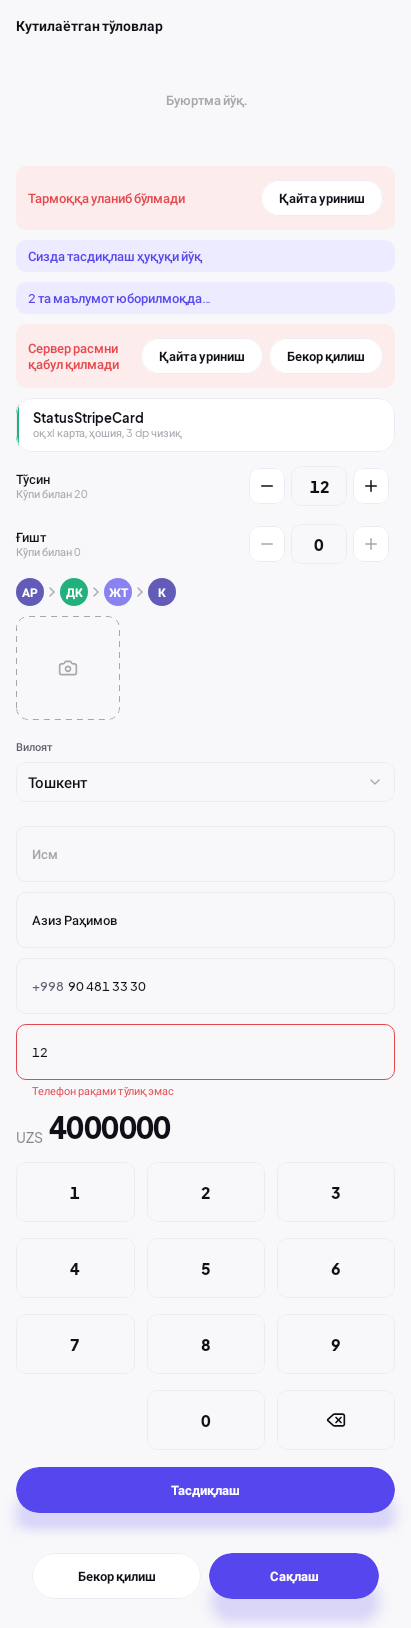
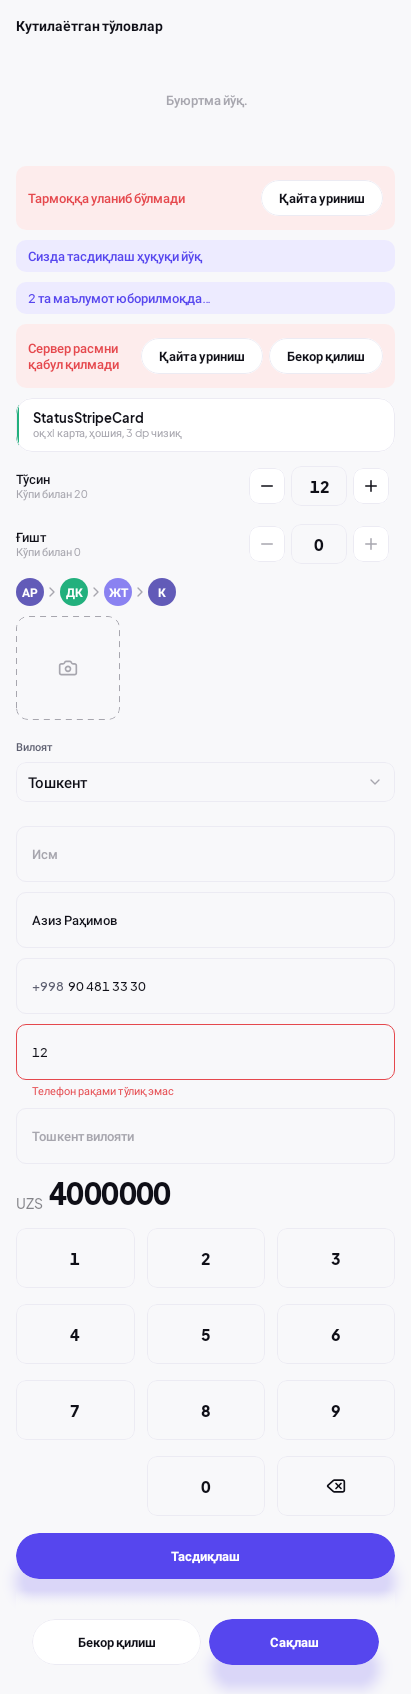
Feat(designsystem) · text field takes enabled, readOnly and keyboard actions
`EtalonTextField` passed neither `enabled` nor `readOnly` through, so the disabled colours
`EtalonTextFieldDefaults.colors()` declares were unreachable — dead tokens a reviewer could not
judge. It also swallowed `keyboardActions`, which tasks 3–4 need for the IME action that hands
focus from one cell to the next.

All three are now parameters. `ds_kept_light` gains a disabled field beside the other four
states, so the "same `page` fill at `ink3`" decision is visible rather than asserted.

Its KDoc also records where the 40 dp cell lives: `FIELD_MIN_HEIGHT` is a floor, the field
measures ~56 dp with `EtalonType.body` and M3's own content padding, and the overload wrapped
here takes no `contentPadding` — so §3.4's 40 dp numeric cells are `BasicTextField`s drawn to
their own geometry, as `SearchField`'s 40 dp pill already is.

diff --git a/android/core/designsystem/src/main/kotlin/uz/etalon/crm/core/designsystem/components/EtalonTextField.kt b/android/core/designsystem/src/main/kotlin/uz/etalon/crm/core/designsystem/components/EtalonTextField.kt
@@ -1,6 +1,7 @@
 package uz.etalon.crm.core.designsystem.components
 
 import androidx.compose.foundation.layout.heightIn
+import androidx.compose.foundation.text.KeyboardActions
 import androidx.compose.foundation.text.KeyboardOptions
 import androidx.compose.material3.OutlinedTextField
 import androidx.compose.material3.OutlinedTextFieldDefaults
@@ -64,12 +65,22 @@ object EtalonTextFieldDefaults {
  * [EtalonShapes.md], so no screen has to remember the token list — and so the global constraint
  * "no `OutlinedTextField` with default colours" has somewhere to point.
  *
- * [SearchField] stays its own thing: it is a 40 dp pill with a leading glyph, not a form field.
+ * **This is the form field, not the table cell.** [FIELD_MIN_HEIGHT] is a floor, not the drawn
+ * height: with [EtalonType.body] and M3's own content padding the field measures ~56 dp, and the
+ * overload wrapped here takes no `contentPadding` to shrink it. §3.4's 40 dp numeric cells — the
+ * room card's ЭНИ/БЎЙИ and the rate sheet's figures — are [androidx.compose.foundation.text.BasicTextField]s
+ * drawn to their own geometry, the way [SearchField]'s 40 dp pill already is.
  *
  * @param prefix a fixed run before the value that is not part of it — «+998 » on a phone number.
  *   It is drawn, never typed, so [onValueChange] never sees it.
  * @param supportingText the line under the field. With [isError] it is the reason, in `red`;
  *   without, a hint in `ink3`.
+ * @param enabled false greys the text to `ink3` and keeps the same `page` fill — this app disables
+ *   a field to say "not yet", never "never", and a greyed-out container reads as broken.
+ * @param readOnly the value is shown and selectable but not editable: a field waiting on a picker,
+ *   not a disabled one.
+ * @param keyboardActions what the IME action key does; pair it with [keyboardOptions]'s
+ *   `imeAction` when a field hands focus on to the next one.
  */
 @Composable
 fun EtalonTextField(
@@ -78,7 +89,10 @@ fun EtalonTextField(
     modifier: Modifier = Modifier,
     placeholder: String? = null,
     singleLine: Boolean = true,
+    enabled: Boolean = true,
+    readOnly: Boolean = false,
     keyboardOptions: KeyboardOptions = KeyboardOptions.Default,
+    keyboardActions: KeyboardActions = KeyboardActions.Default,
     visualTransformation: VisualTransformation = VisualTransformation.None,
     textStyle: TextStyle = EtalonType.body,
     prefix: String? = null,
@@ -88,6 +102,8 @@ fun EtalonTextField(
     value = value,
     onValueChange = onValueChange,
     modifier = modifier.heightIn(min = FIELD_MIN_HEIGHT),
+    enabled = enabled,
+    readOnly = readOnly,
     textStyle = textStyle,
     placeholder = placeholder?.let { { Text(it, style = textStyle, maxLines = 1) } },
     prefix = prefix?.let { { Text(it, style = textStyle) } },
@@ -95,6 +111,7 @@ fun EtalonTextField(
     isError = isError,
     singleLine = singleLine,
     keyboardOptions = keyboardOptions,
+    keyboardActions = keyboardActions,
     visualTransformation = visualTransformation,
     shape = EtalonShapes.md,
     colors = EtalonTextFieldDefaults.colors(),

diff --git a/android/core/designsystem/src/test/kotlin/uz/etalon/crm/core/designsystem/KeptComponentsScreenshotTest.kt b/android/core/designsystem/src/test/kotlin/uz/etalon/crm/core/designsystem/KeptComponentsScreenshotTest.kt
@@ -92,8 +92,9 @@ private fun KeptSheet() = Column(
     CustodyChain(CHAIN)
     PhotoStrip(photos = emptyList(), onOpen = {}, onAdd = {})
     RegionField("Вилоят", "Тошкент", onOpen = {})
-    // EtalonTextField: empty with its placeholder, filled, with the «+998 » prefix, and in error
-    // with its reason. The focused state is not here — a blinking cursor is not a stable baseline,
+    // EtalonTextField: empty with its placeholder, filled, with the «+998 » prefix, in error with
+    // its reason, and disabled — which is the same `page` fill at `ink3`, on purpose.
+    // The focused state is not here — a blinking cursor is not a stable baseline,
     // and faking the focused border with a second colours object would photograph the fake rather
     // than the component. The indigo focus border is checked on the emulator instead.
     EtalonTextField(value = "", onValueChange = {}, placeholder = "Исм", modifier = Modifier.fillMaxWidth())
@@ -105,6 +106,10 @@ private fun KeptSheet() = Column(
     EtalonTextField(
         value = "12", onValueChange = {}, modifier = Modifier.fillMaxWidth(), isError = true,
         supportingText = "Телефон рақами тўлиқ эмас",
+    )
+    EtalonTextField(
+        value = "Тошкент вилояти", onValueChange = {}, modifier = Modifier.fillMaxWidth(),
+        enabled = false,
     )
     NumericKeypad(
         value = "4000000",
